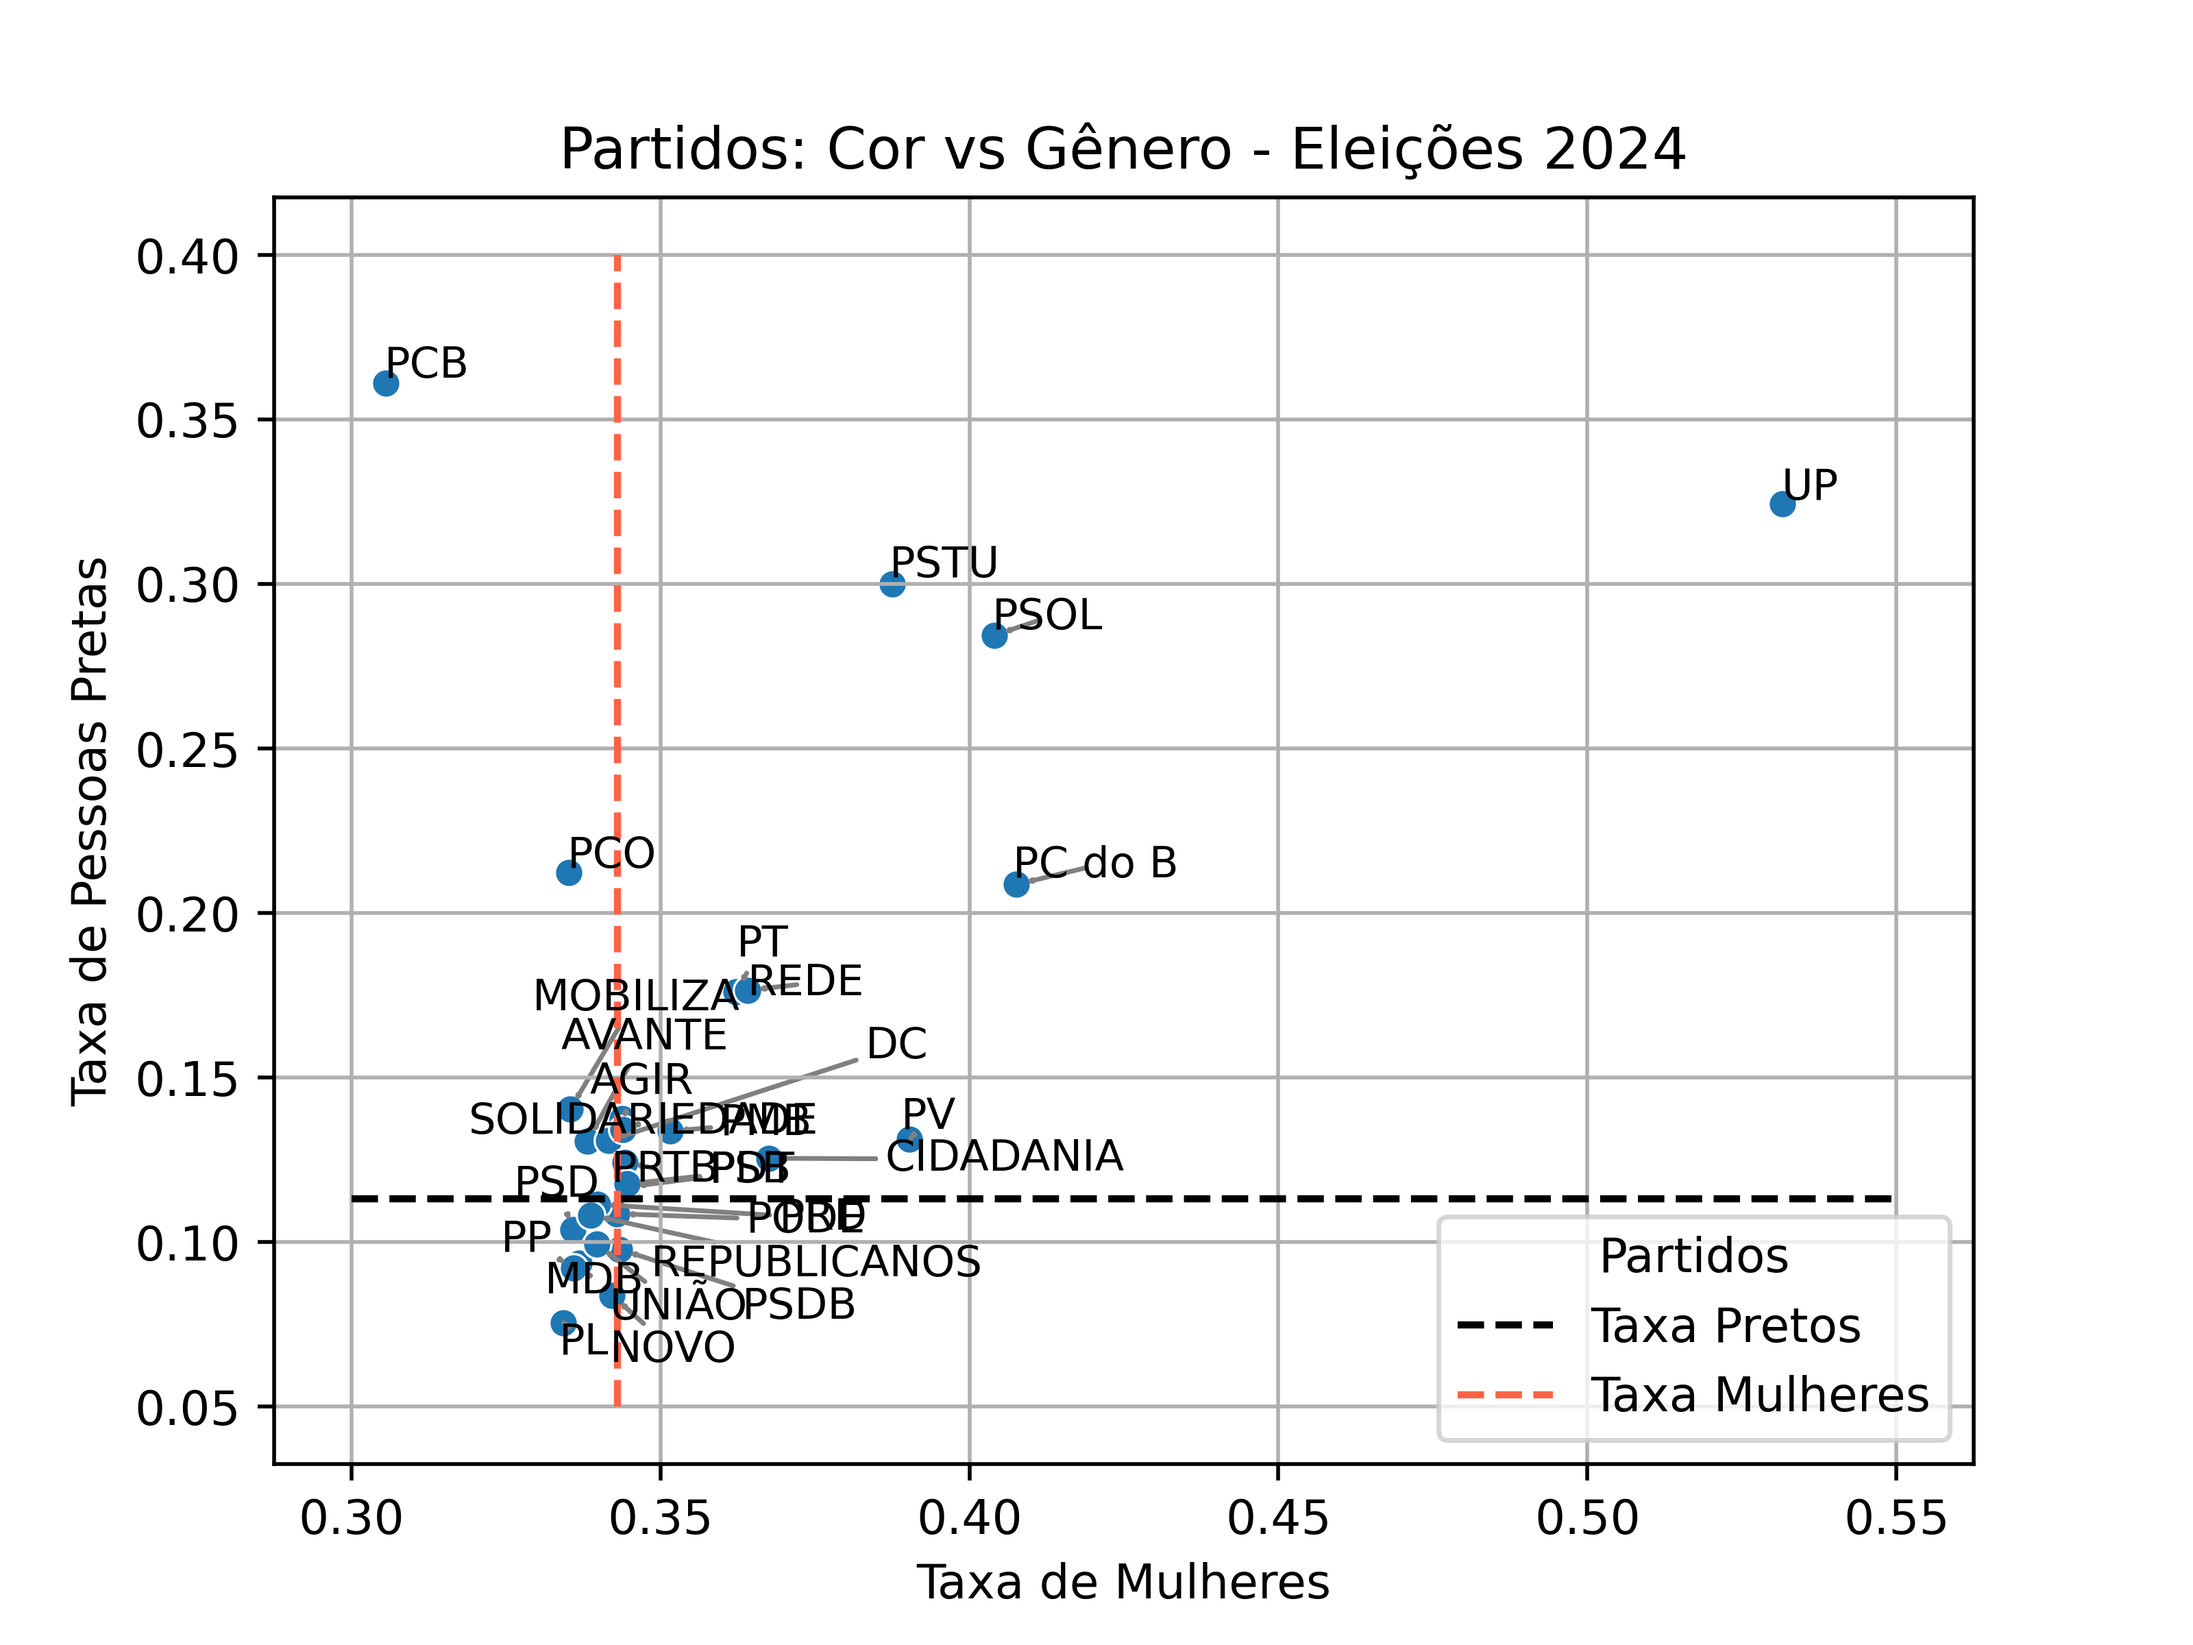
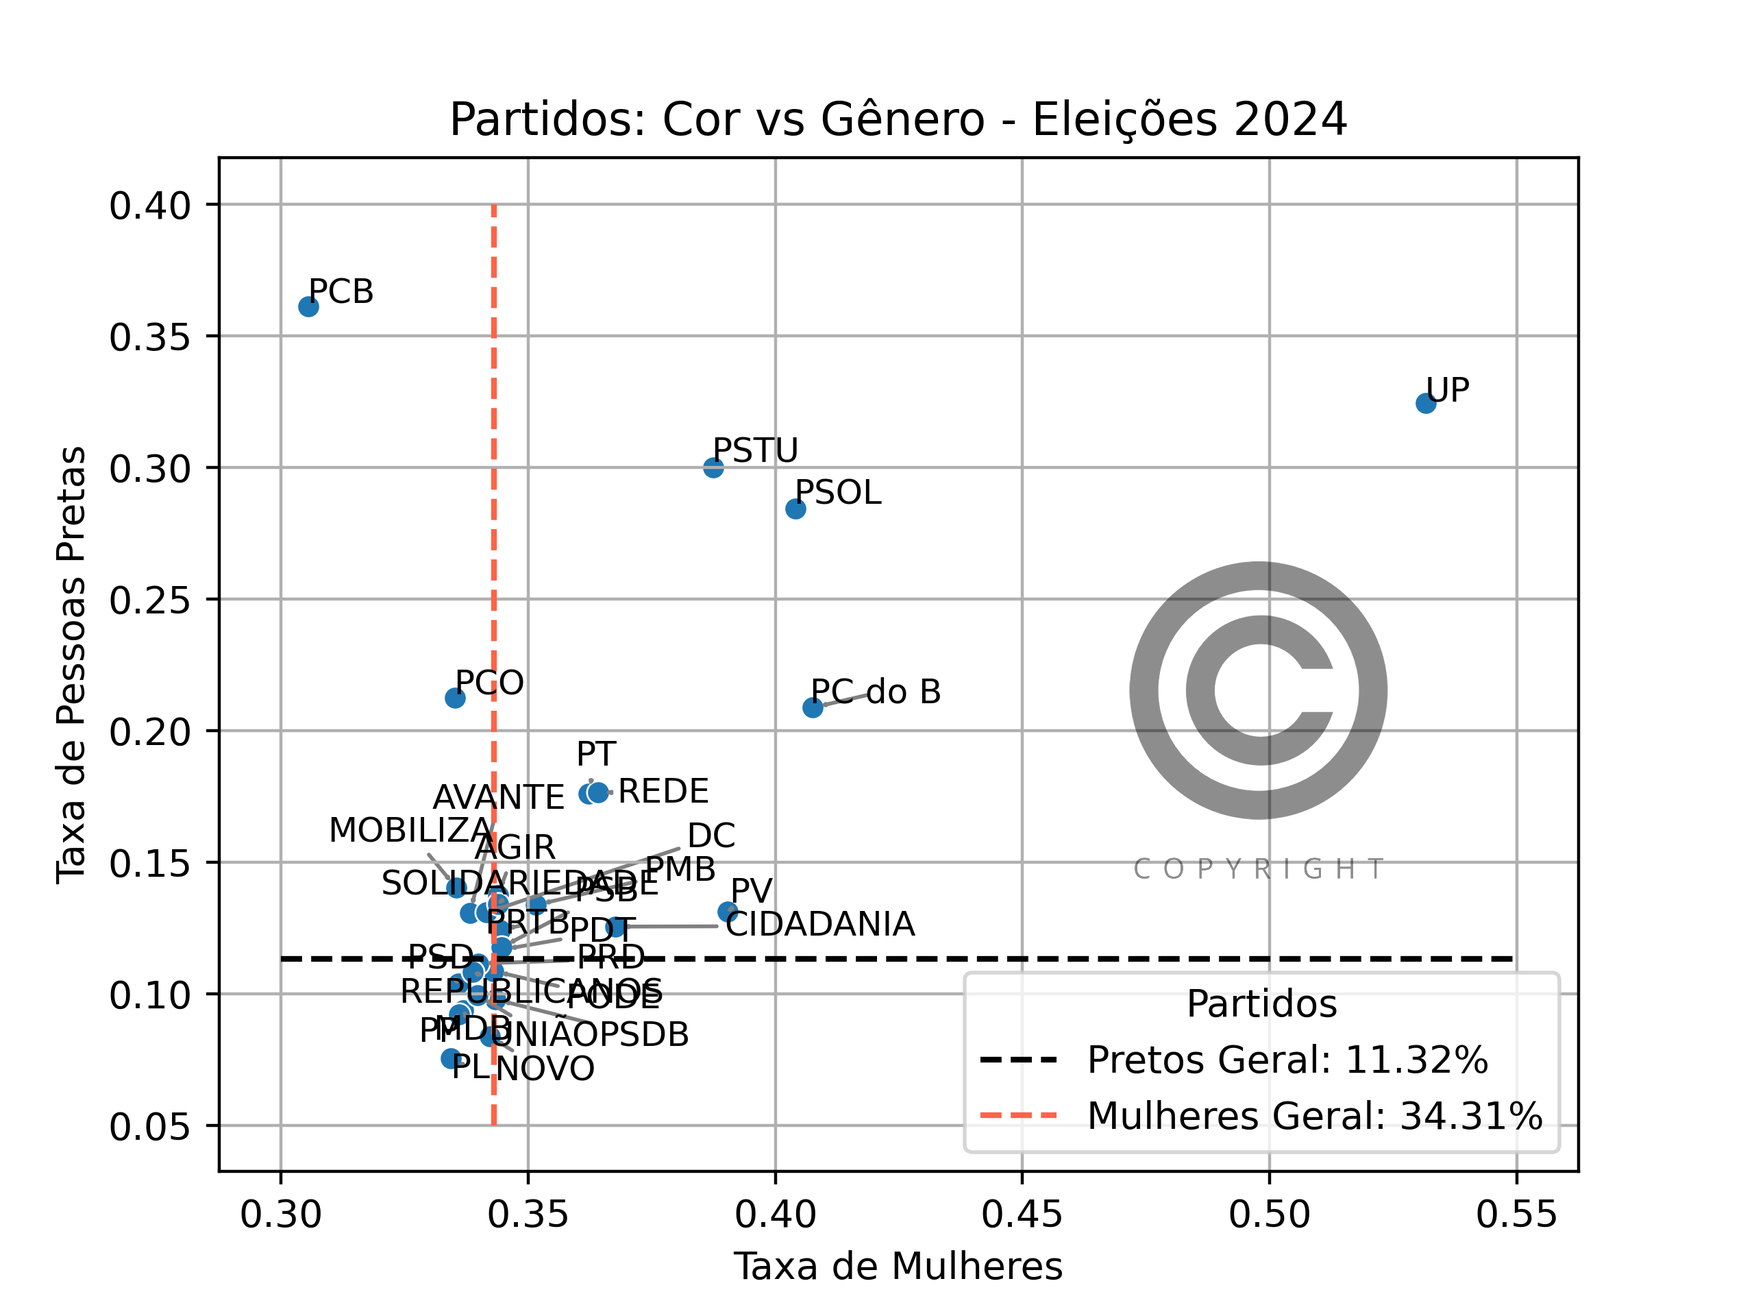
finalizando gráfico - Partidos: Cor vs Gênero - Eleições 2024

diff --git a/src/03_analise.py b/src/03_analise.py
@@ -4,6 +4,8 @@ import pandas as pd
 import sqlalchemy
 import seaborn as sn
 import matplotlib.pyplot as plt
+import matplotlib.image as img
+from matplotlib.offsetbox import OffsetImage, AnnotationBbox
 
 with open ('partidos.sql', 'r') as open_file:
      query = open_file.read()
@@ -11,8 +13,6 @@ with open ('partidos.sql', 'r') as open_file:
 engine = sqlalchemy.create_engine("sqlite:///..\\data\\database.db")
 
 df = pd.read_sql_query(query, engine)
-
-df.head()
 
 #%%
 
@@ -24,7 +24,7 @@ txCorRacaPretaParda = df ['totalCorRacaPretaParda'].sum() / df['totalCandidatura
 #%%
 
 from adjustText import adjust_text 
-plt.figure(dpi=500)
+plt.figure(dpi=400)
 
 sn.scatterplot(data=df, 
                x='txGenFemininoBR', 
@@ -37,20 +37,40 @@ for i in df['SG_PARTIDO']:
      y = data['txCorRacaPretaBR'].values[0]
      texts.append(plt.text(x, y, i, fontsize=9))
 
-
 adjust_text(texts, 
             only_move={'points': 'y', 'texts': 'xy'}, 
             arrowprops=dict(arrowstyle='->', color='gray'))
-
 
 plt.grid(True)
 plt.title('Partidos: Cor vs Gênero - Eleições 2024')
 plt.xlabel('Taxa de Mulheres')
 plt.ylabel('Taxa de Pessoas Pretas')
-plt.hlines(y=txCorRacaPreta, xmin=0.3, xmax=0.55, color='black', linestyles='--', label='Taxa Pretos')
-plt.vlines(x=txGenFeminino, ymin=0.05, ymax=0.40, color='tomato', linestyles='--', label='Taxa Mulheres')
+plt.hlines(y=txCorRacaPreta, 
+           xmin=0.3, 
+           xmax=0.55, 
+           color='black', 
+           linestyles='--', 
+           label=f'Pretos Geral: {100 * txCorRacaPreta:.2f}%')
+
+plt.vlines(x=txGenFeminino, 
+           ymin=0.05, 
+           ymax=0.40, 
+           color='tomato', 
+           linestyles='--', 
+           label=f'Mulheres Geral: {100 * txGenFeminino:.2f}%')
 
 plt.legend(loc='lower right', title='Partidos', title_fontsize=10)
+
+logo = img.imread('..\\img\\copyright.png')
+imagebox = OffsetImage(logo, zoom=0.065, alpha=0.45)
+ab = AnnotationBbox(imagebox, (0.76, 0.44), 
+                    frameon=False, 
+                    pad=0, 
+                    xycoords='axes fraction', 
+                    boxcoords='axes fraction', 
+                    box_alignment=(0.5, 0.5))
+
+plt.gca().add_artist(ab)
 
 plt.savefig('..\\img\\partidos_cor_raca_genero.png')
 
